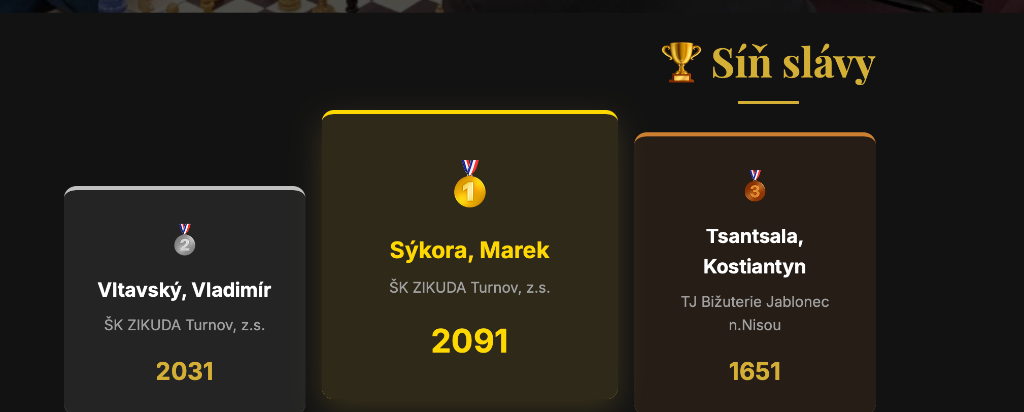
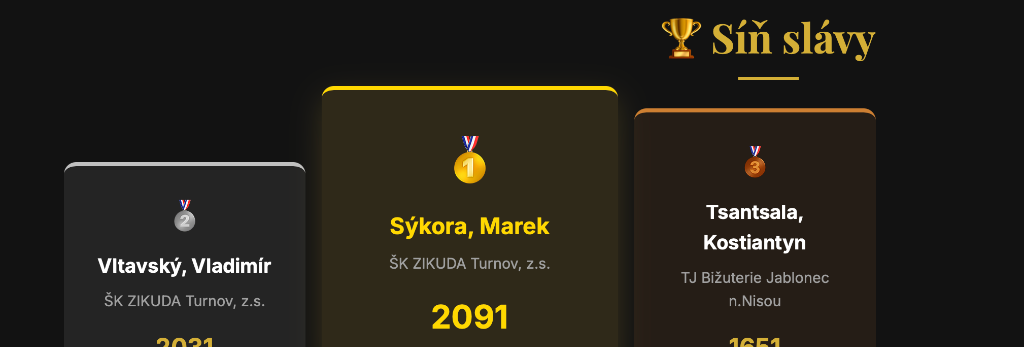
Fix Blicak: Separate ELO/Points columns, compact table, re-crop photo

diff --git a/src/routes/scraping.js b/src/routes/scraping.js
@@ -152,79 +152,94 @@ router.get('/chess-results', async (req, res) => {
 
             // Let's rely on relative positions found above or defaulting
 
-            if (nameIndex !== -1) {
-                // Try to match specific columns based on Name index
+            // Improved logic for standard Chess-Results tables (Layout B - Standings)
+            // Typical columns: Rank, SNo, Name, Rtg, Fed, Club, Pts, TB1...
 
-                // Fed is often Name + 1
-                // Rtg is often Name + 2 (or Name - 1?)
-                // Club is often Name + 3
+            // 1. Name is anchor.
+            // 2. Rtg (ELO) is usually the first 4-digit number (1000-2999) or "0" BEFORE or AFTER name.
+            //    In "Standings", Rtg is often column 3 or 4 (Name is 2 or 3).
 
-                // Let's try to be smart.
-                // Check if cell[nameIndex+1] is FED (3 letters uppercase)
-                const next = cleanedCells[nameIndex + 1];
-                const next2 = cleanedCells[nameIndex + 2];
+            // Let's reset and search relative to nameIndex.
 
-                if (next && /^[A-Z]{3}$/.test(next)) {
-                    fed = next;
-                    // Then next might be Rtg
-                    if (next2 && /^\d+$/.test(next2)) {
-                        elo = next2;
-                        club = cleanedCells[nameIndex + 3];
-                    } else {
-                        club = next2;
-                    }
+            // Search for ELO (Rtg)
+            // Usually within 2 columns distance of Name
+            let foundElo = false;
+            for (let i = Math.max(0, nameIndex - 2); i <= Math.min(cells.length - 1, nameIndex + 3); i++) {
+                if (i === nameIndex) continue;
+                const val = cleanedCells[i];
+                // Strict ELO check: 4 digits starting with 1 or 2, or exactly 0
+                if ((/^[12]\d{3}$/.test(val) || val === '0') && !foundElo) {
+                    elo = val;
+                    foundElo = true;
                 }
-                else if (next && /^\d+$/.test(next) && next.length >= 3) {
-                    // Name, Rtg, Club?
-                    elo = next;
-                    club = cleanedCells[nameIndex + 2];
-                }
-                else {
-                    // Name, Club, ...?
-                    club = next;
-                }
+            }
 
-                // Points detection for art=1
-                if (isResults) {
-                    // Try to find the Points column.
-                    // It's usually the first column after Club that is a generic number (formatted like points).
-                    // Or we can just grab the cell that corresponds to "Pts" in header... but we skipped header.
+            // Search for Points
+            // Points is usually further effectively the last main column before tiebreaks.
+            // It looks like a number (e.g. 5, 5.5, 6.0).
+            // It is rarely a 4 digit integer unless it's a huge tournament, so it's distinct from ELO.
 
-                    // Let's search for the first number-like cell after Club (or after Name+3)
-                    // that matches points pattern.
-                    let searchStart = nameIndex + 2;
-                    for (let i = searchStart; i < cells.length; i++) {
-                        const c = cleanedCells[i];
-                        // Points: 0, 0.5, 1, ..., 9.5, 10...
-                        // Regex: ^\d+([,.]5)?$
-                        if (/^\d+([,.]5)?$/.test(c.replace(',', '.'))) {
-                            // This is likely points
-                            points = c;
-                            break; // First number is usually total points
+            // Search from the end backwards, but be careful of Tiebreaks which also look like points.
+            // Actually, often Pts is the FIRST number after Club/Fed.
+
+            // Let's try finding the column that looks like Club (text)
+            // Club is often after Rtg/Fed
+
+            // Fallback approach:
+            // Find all numbers in the row.
+            // Exclude the one used for Rank (first column usually).
+            // Exclude the one used for SNo (integer, usually sequential).
+            // Exclude ELO (1000+).
+            // What remains? Points and TBs.
+            // Points is usually the largest value? Or simply the first one after Club.
+
+            // Let's try to specifically identify "Points" by pattern relative to end of row?
+            // No, let's look for the first float/int after name+2 that isn't ELO.
+
+            if (isResults) {
+                for (let i = nameIndex + 1; i < cells.length; i++) {
+                    const val = cleanedCells[i].replace(',', '.');
+
+                    // heuristic: Points is usually < 100 (for normal tournaments)
+                    // Tiebreaks can be larger.
+                    // But Points is usually the PRIMARY score.
+
+                    if (/^\d+(\.5)?$/.test(val)) {
+                        // verify it's not ELO
+                        if (/^[12]\d{3}$/.test(cleanedCells[i])) continue; // Likely ELO
+                        if (cleanedCells[i] === '0' && i < nameIndex + 3) continue; // Likely ELO 0 near name
+
+                        // Found a number that looks like points. 
+                        // If we haven't assigned points yet, take it.
+                        if (!points) {
+                            points = cleanedCells[i];
+                            // Don't break immediately, might be SNo if before name? 
+                            // But loop starts after name.
+                            break;
                         }
                     }
                 }
             }
-
-            // Fallback for Club if empty and looks like we missed it
-            if (!club && cleanedCells[nameIndex + 3]) club = cleanedCells[nameIndex + 3];
-
-            if (name) {
-                players.push({
-                    rank,
-                    name,
-                    elo: elo || '',
-                    club: club || '',
-                    fed,
-                    points: points || '', // Will be empty for startlist
-                    isResult: isResults && !!points
-                });
-            }
         }
 
-        // Auto-detect type if not clear
-        if (players.some(p => p.points)) {
-            isResults = true;
+        // Post-processing: If ELO ended up in Points (common error if logic is loose), swap if needed?
+        // Actually, ELO is usually > 20 points (unless 100 rounds).
+        if (points && parseInt(points) > 100 && !elo) {
+            // If "points" is 2000, it's actually ELO.
+            elo = points;
+            points = '';
+        }
+
+        // Fallback for Club: If we didn't search explicitly, try generic text after name
+        if (!club) {
+            for (let i = nameIndex + 1; i < cells.length; i++) {
+                const c = cleanedCells[i];
+                // Club is usually text, not number, not Fed (3 chars)
+                if (/[a-zA-Z]{4,}/.test(c) && !/^\d/.test(c)) {
+                    club = c;
+                    break;
+                }
+            }
         }
 
         res.json({ players, count: players.length, type: isResults ? 'results' : 'startlist' });

diff --git a/blicak.html b/blicak.html
@@ -744,28 +744,32 @@
                     <!-- Full Results Table -->
                     <div style="margin-top: 4rem; overflow-x: auto;">
                         <h3 style="text-align: center; color: var(--primary-color); margin-bottom: 2rem; font-family: 'Playfair Display', serif;">Kompletní pořadí</h3>
-                        <table style="width: 100%; border-collapse: collapse; color: #fff; min-width: 600px;">
+                        <table style="width: 100%; border-collapse: collapse; color: #fff; min-width: 600px; font-size: 0.9rem;">
                             <thead>
-                                <tr style="border-bottom: 2px solid var(--primary-color); text-align: left;">
-                                    <th style="padding: 1rem; width: 80px; text-align: center;">Poř.</th>
-                                    <th style="padding: 1rem;">Jméno</th>
-                                    <th style="padding: 1rem;">Klub</th>
-                                    <th style="padding: 1rem; text-align: right; width: 100px;">Body</th>
+                                <tr style="border-bottom: 1px solid var(--primary-color); text-align: left;">
+                                    <th style="padding: 0.5rem; width: 50px; text-align: center;">Poř.</th>
+                                    <th style="padding: 0.5rem;">Jméno</th>
+                                    <th style="padding: 0.5rem; color: #aaa; text-align: center;">ELO</th>
+                                    <th style="padding: 0.5rem;">Klub</th>
+                                    <th style="padding: 0.5rem; text-align: right; width: 80px;">Body</th>
                                 </tr>
                             </thead>
                             <tbody>
                                 ${players.map((p, index) => `
-                                    <tr style="border-bottom: 1px solid rgba(255,255,255,0.1); transition: background 0.2s;" onmouseover="this.style.background='rgba(255,255,255,0.05)'" onmouseout="this.style.background='transparent'">
-                                        <td style="padding: 1rem; text-align: center; font-weight: bold; color: ${index < 3 ? 'var(--primary-color)' : '#aaa'};">
+                                    <tr style="border-bottom: 1px solid rgba(255,255,255,0.05); height: 40px; transition: background 0.1s;" onmouseover="this.style.background='rgba(255,255,255,0.03)'" onmouseout="this.style.background='transparent'">
+                                        <td style="padding: 0.5rem; text-align: center; font-weight: bold; color: ${index < 3 ? 'var(--primary-color)' : '#888'};">
                                             ${p.rank || index + 1}.
                                         </td>
-                                        <td style="padding: 1rem; font-weight: 500;">
+                                        <td style="padding: 0.5rem; font-weight: 500;">
                                             ${p.name}
                                         </td>
-                                        <td style="padding: 1rem; color: #ccc;">
+                                        <td style="padding: 0.5rem; text-align: center; color: #888; font-family: monospace;">
+                                            ${p.elo || '-'}
+                                        </td>
+                                        <td style="padding: 0.5rem; color: #ccc; font-size: 0.85rem;">
                                             ${p.club || ''}
                                         </td>
-                                        <td style="padding: 1rem; text-align: right; font-weight: bold;">
+                                        <td style="padding: 0.5rem; text-align: right; font-weight: bold; color: var(--primary-color);">
                                             ${p.points || ''}
                                         </td>
                                     </tr>
